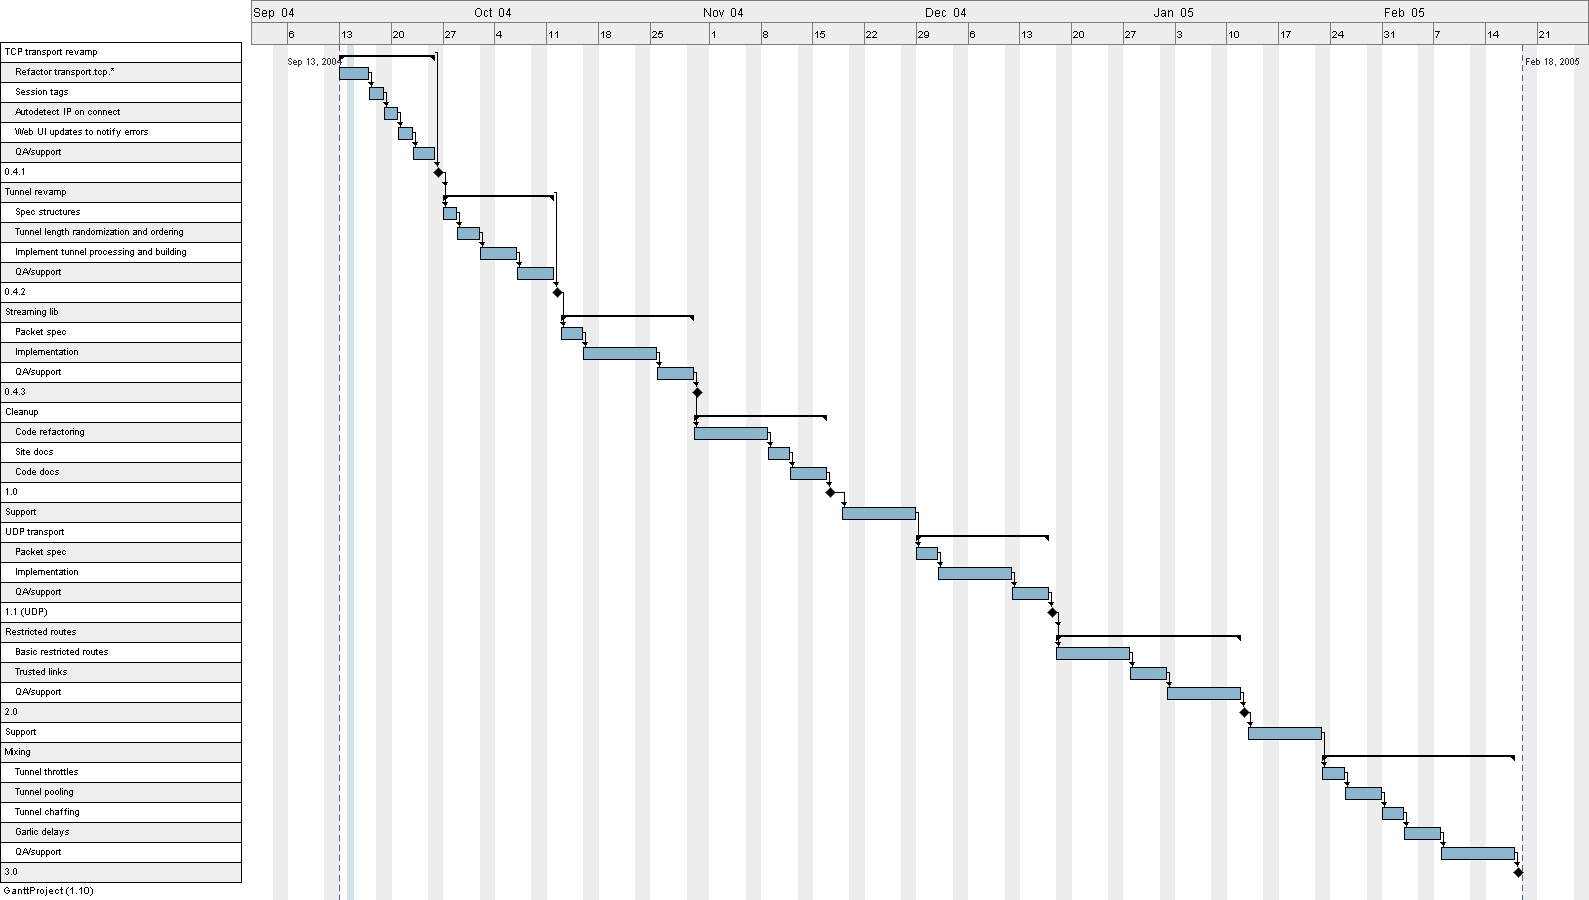
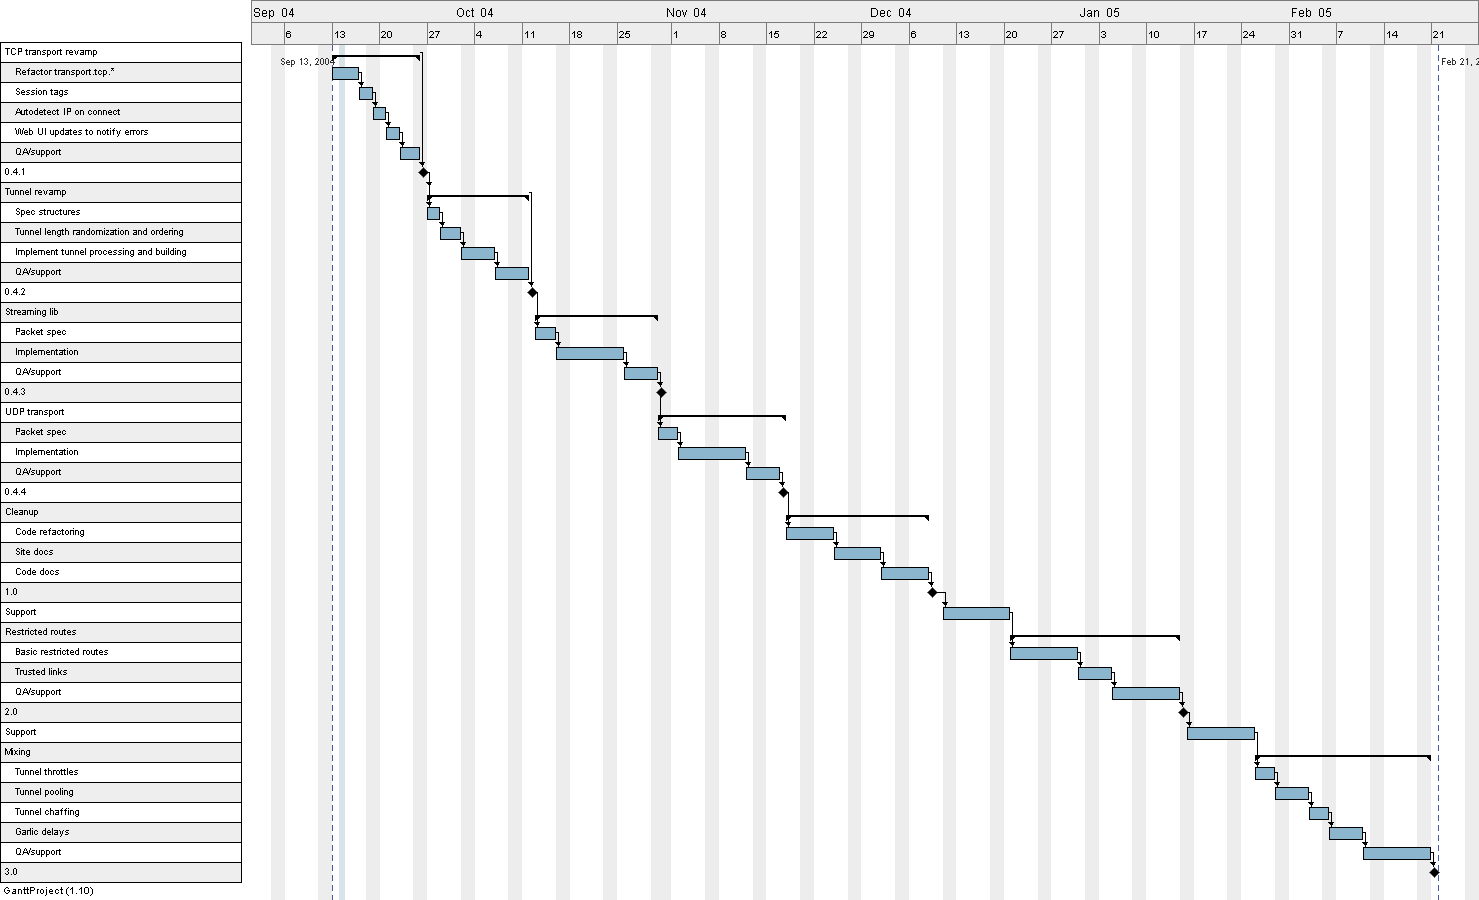
moved udp transport to 0.4.4 instead of 1.1 (so 1.0 can handle a large user base)

diff --git a/pages/roadmap.html b/pages/roadmap.html
@@ -15,15 +15,15 @@
 <li>Full streaming protocol implemented with a moving window size</li>
 </ul>
 
-<h2>1.0 (November)</h2>
+<h2>0.4.4 (November)</h2>
+<ul>
+<li>UDP transport</li>
+</ul>
+
+<h2>1.0 (December)</h2>
 <ul>
 <li>Javadoc and code walkthrough / guidebook updated</li>
 <li>Internal code audit complete</li>
-</ul>
-
-<h2>1.1 (December)</h2>
-<ul>
-<li>UDP transport</li>
 </ul>
 
 <h2>2.0 (January)</h2>
